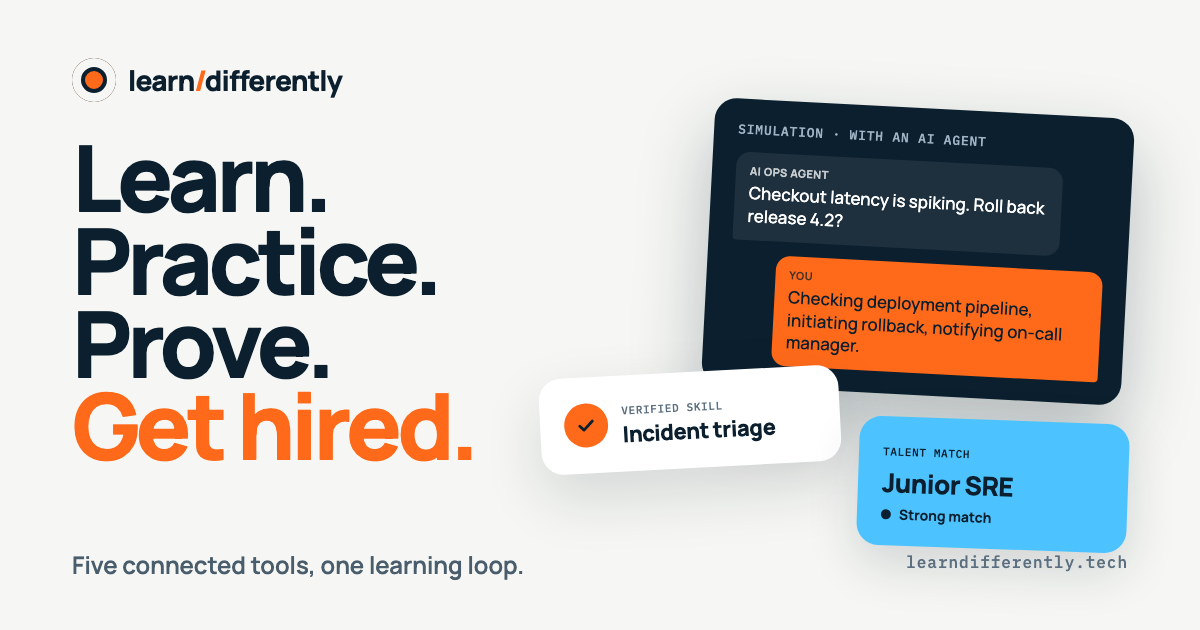
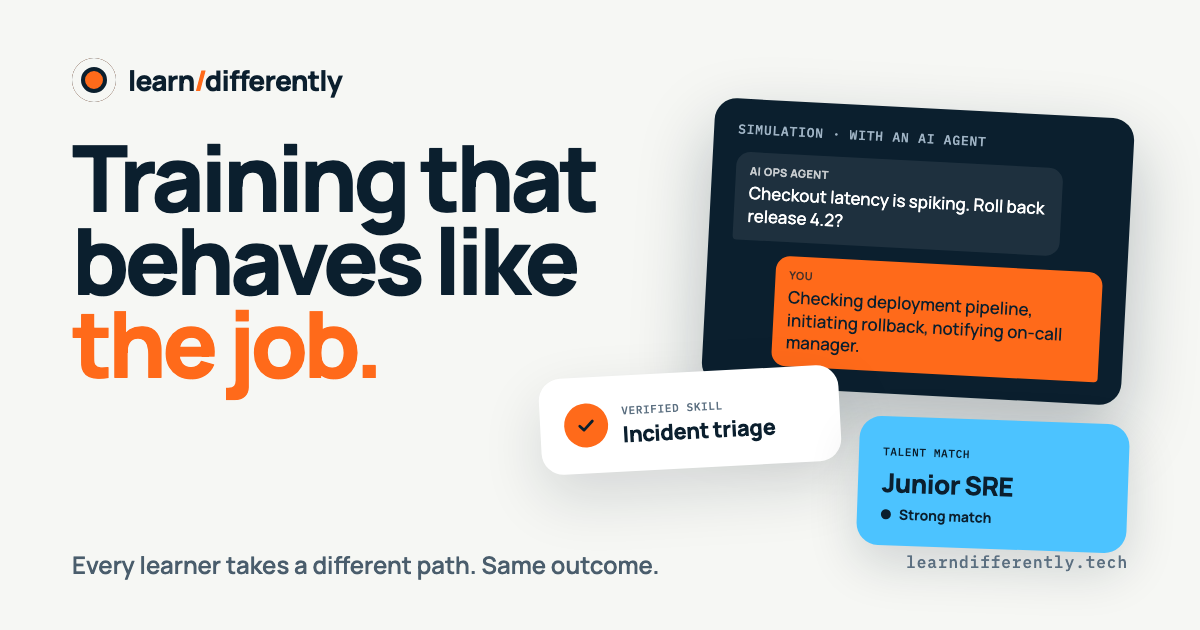
feat(site-c): page title, description and link-preview image match Design C
Refs #75

Changed region(s): [[0.0617, 0.2111, 0.4933, 0.754], [0.0617, 0.8746, 0.555, 0.9349]]

diff --git a/apps/learn/index.html b/apps/learn/index.html
@@ -5,25 +5,25 @@
     <meta name="viewport" content="width=device-width, initial-scale=1.0" />
     <!-- Homepage entry. delaware.html is the same app with the tenant's link-preview tags;
          vercel.json picks the file by hostname (build renames this one to home.html). -->
-    <title>Learn Differently — Learn. Practice. Prove. Get hired.</title>
+    <title>Learn Differently — Training that behaves like the job</title>
     <meta
       name="description"
-      content="Training and workforce development for the agentic era. Five connected tools, one learning loop: short lessons end in real exercises, exercises become verified skills, and verified skills match learners to jobs."
+      content="Every learner takes a different path. Same outcome. One learning system that turns theory into job-ready skills, replaces the spreadsheets and disconnected tools, and automates the manual work your team juggles today."
     />
     <meta property="og:type" content="website" />
     <meta property="og:site_name" content="Learn Differently" />
     <meta property="og:url" content="https://learndifferently.tech/" />
-    <meta property="og:title" content="Learn Differently — Learn. Practice. Prove. Get hired." />
+    <meta property="og:title" content="Learn Differently — Training that behaves like the job" />
     <meta
       property="og:description"
-      content="Five connected tools, one learning loop. Skills verified from the first exercise, not the final exam. For training providers, colleges and workforce agencies."
+      content="Every learner takes a different path. Same outcome. Skills verified from the first exercise, outcomes tracked as learners work, reported once in your funders' terms."
     />
     <meta property="og:image" content="https://learndifferently.tech/og/home.png" />
     <meta property="og:image:width" content="1200" />
     <meta property="og:image:height" content="630" />
     <meta
       property="og:image:alt"
-      content="learn/differently: Learn. Practice. Prove. Get hired. With a sample lesson, simulation, verified skill and job match."
+      content="learn/differently: Training that behaves like the job. With a sample lesson, simulation, verified skill and job match."
     />
     <meta name="twitter:card" content="summary_large_image" />
     <link rel="icon" type="image/svg+xml" href="/favicon.svg" />
